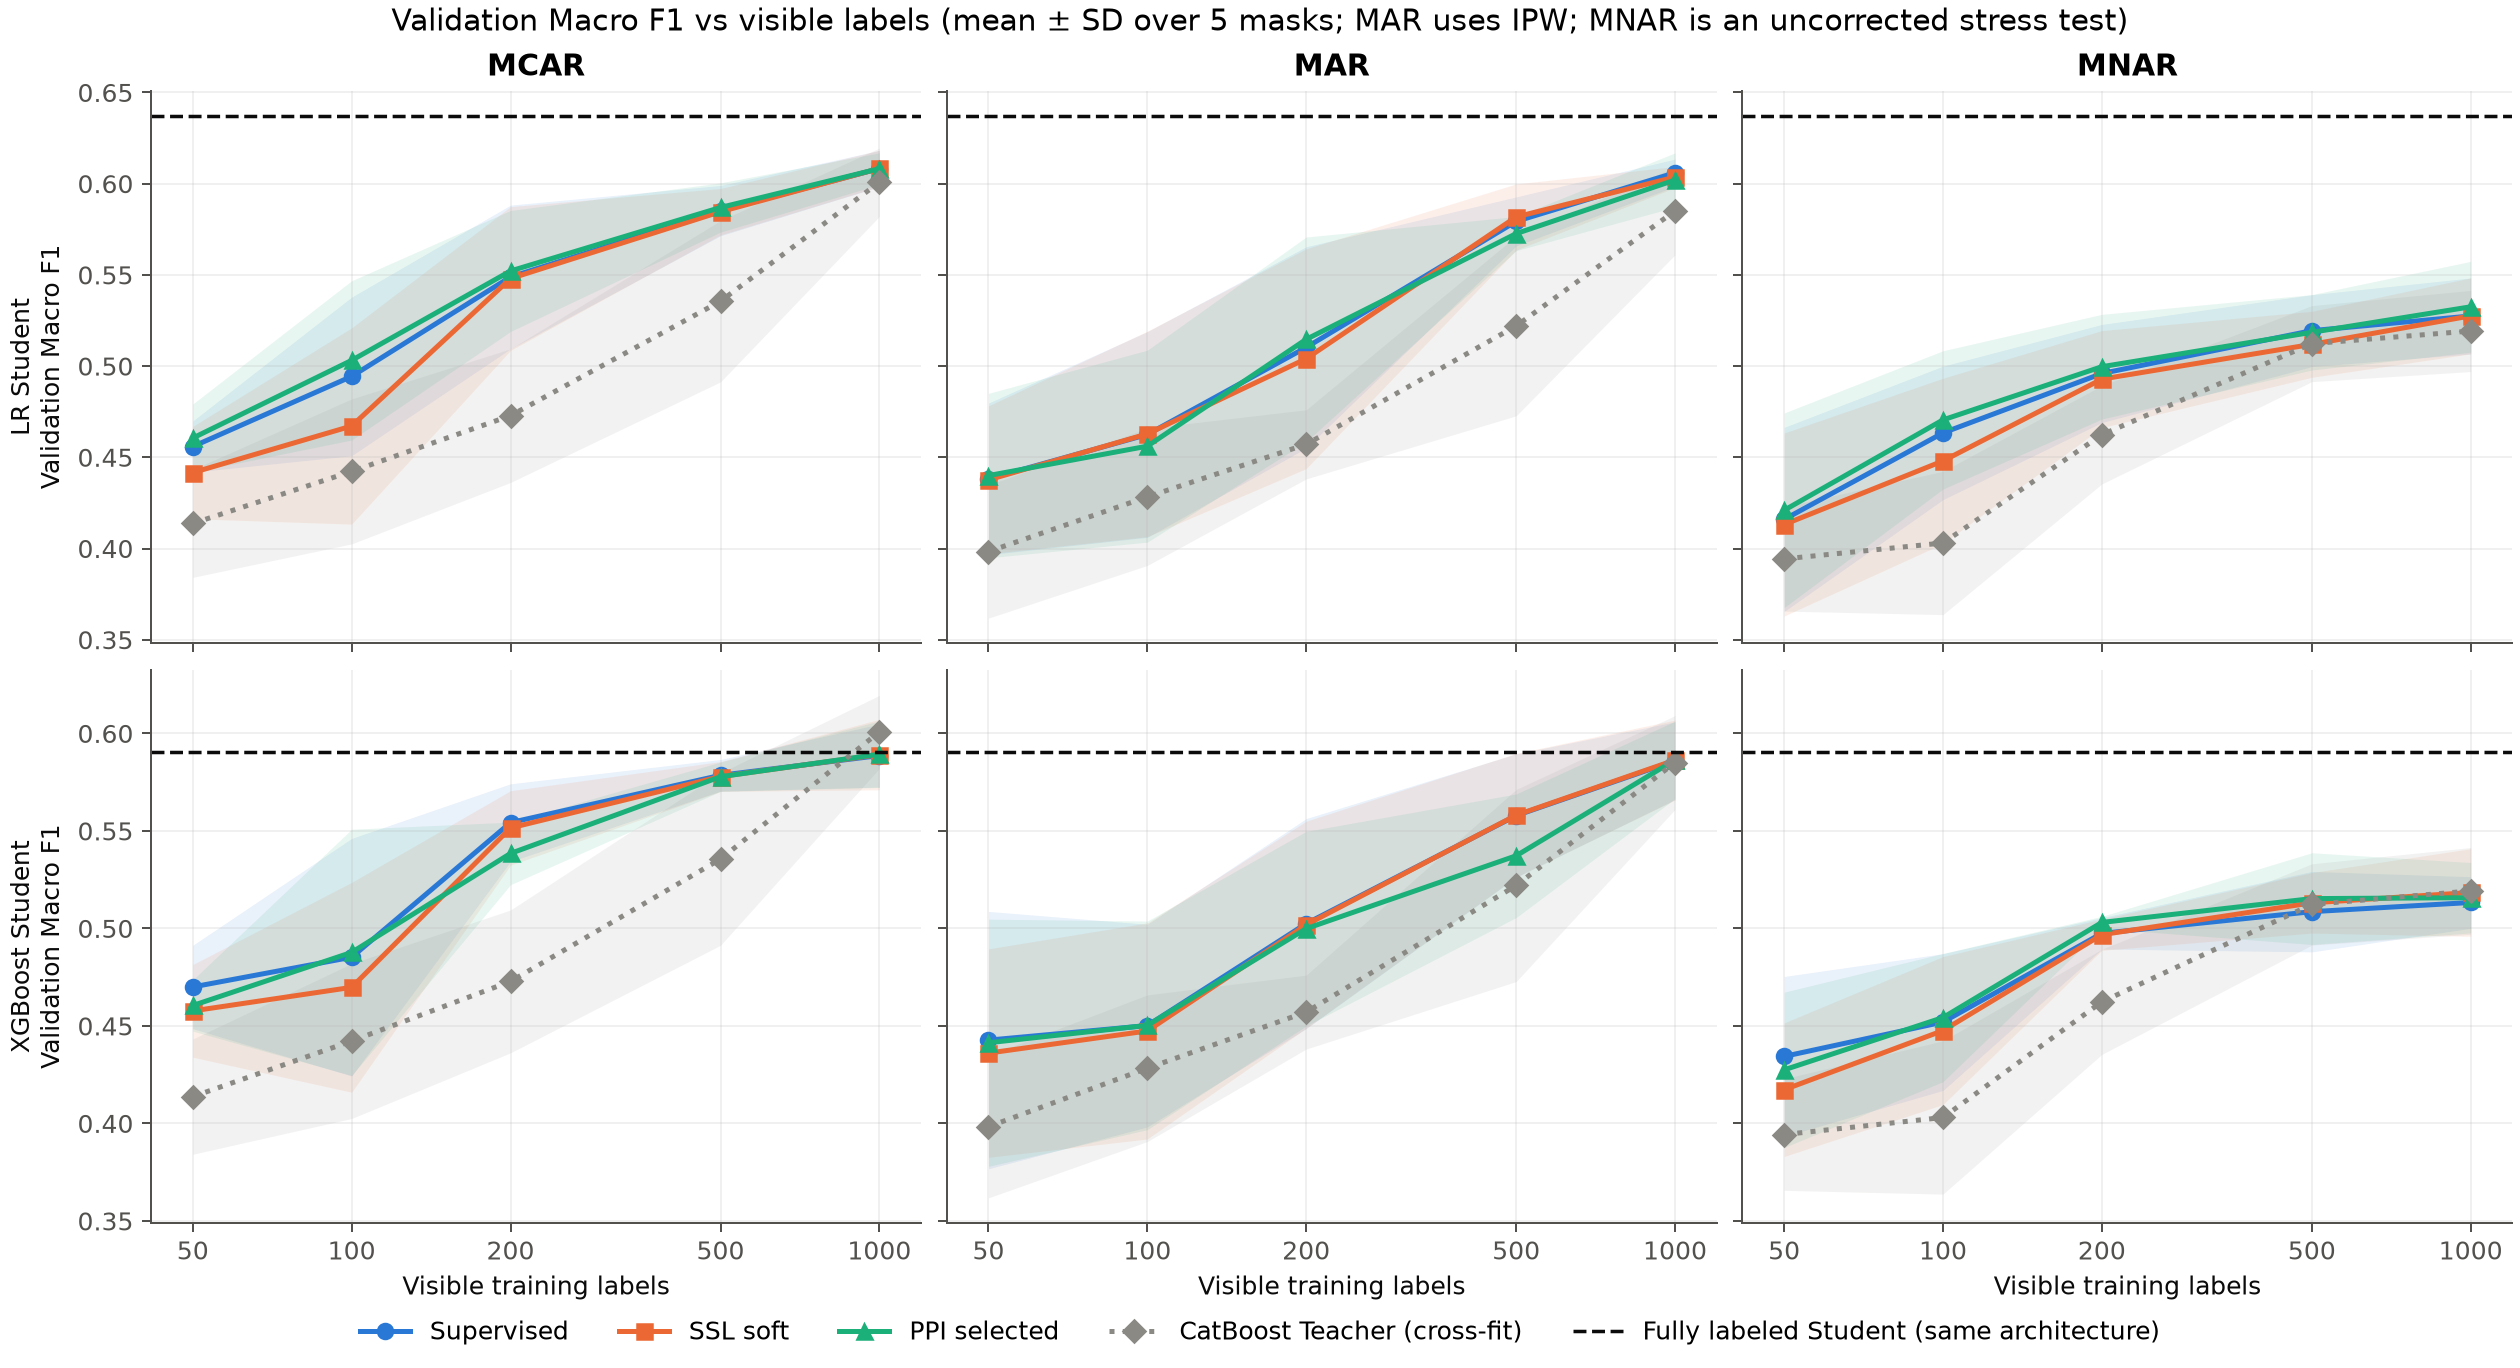
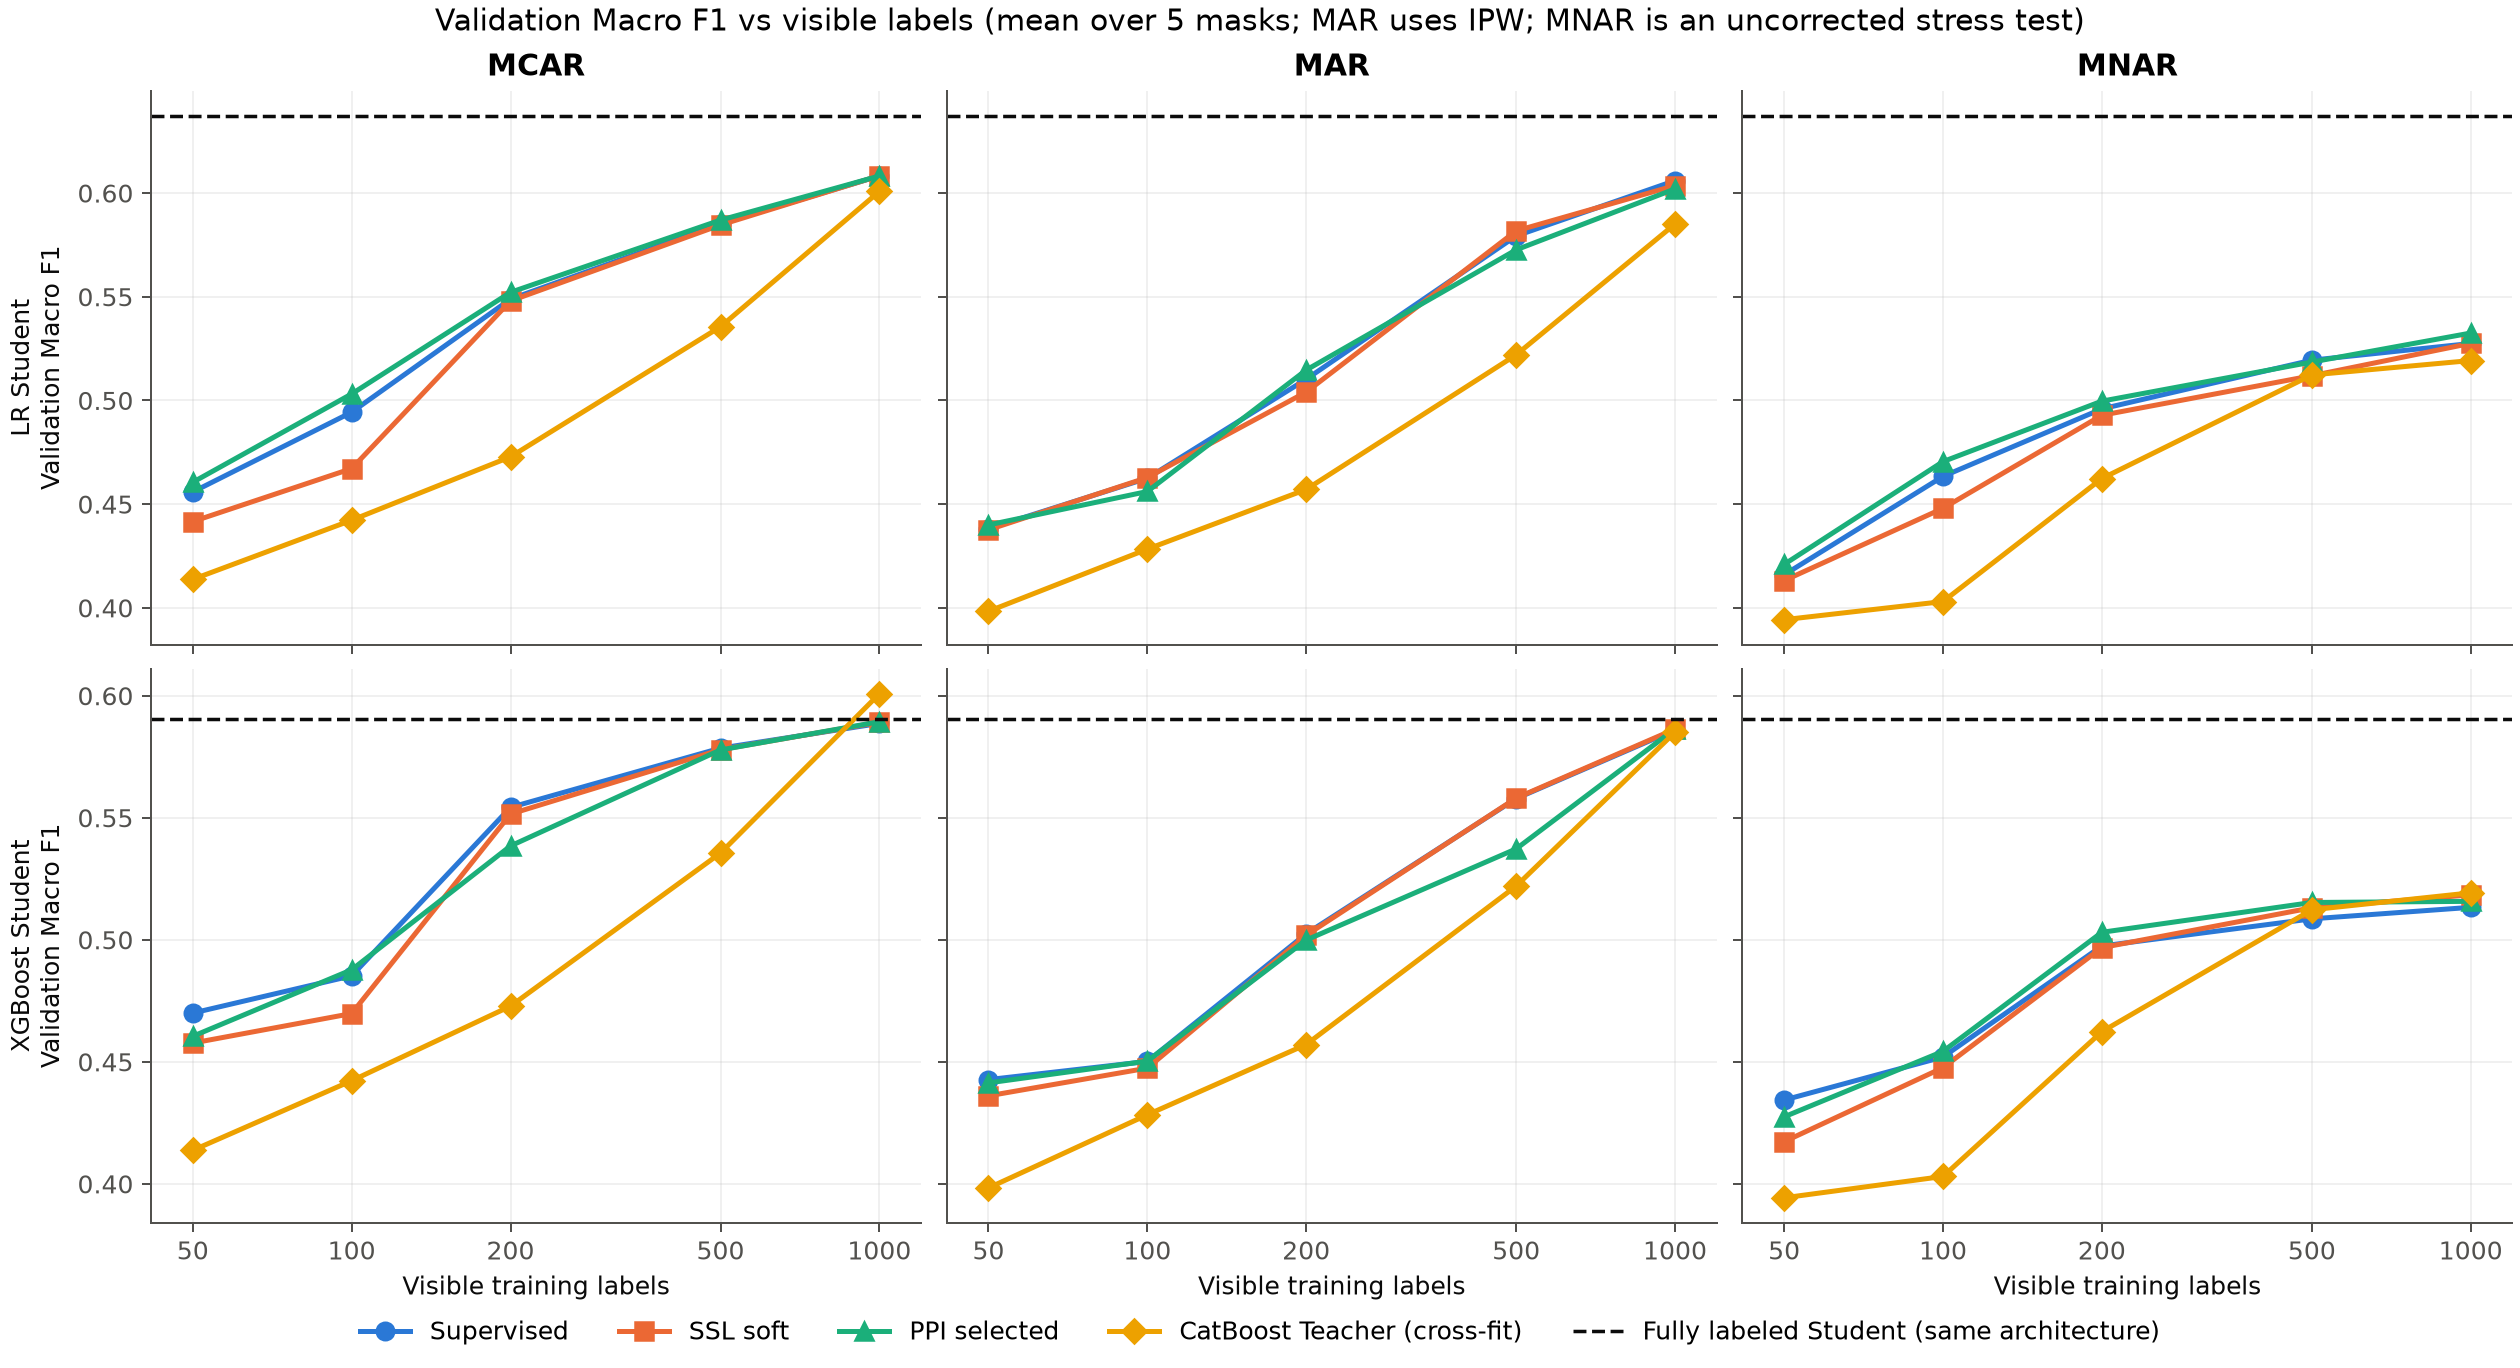
update plts

diff --git a/src/core/figures.py b/src/core/figures.py
@@ -61,10 +61,13 @@ MECHANISMS = list(DEFAULT.mechanisms)
 VIOLET = '#6250d6'
 
 
-def six_panel(row_labels):
-    fig, axes = plt.subplots(2, 3, figsize=(14, 7.6), sharex=True, sharey='row', layout='constrained')
+def six_panel(row_labels, mechanisms=None):
+    """2 × 3 grid (MCAR / MAR / MNAR); a study run on fewer mechanisms gets only those columns."""
+    mechanisms = MECHANISMS if mechanisms is None else mechanisms
+    fig, axes = plt.subplots(2, len(mechanisms), figsize=(14*len(mechanisms)/3+(1 if len(mechanisms) < 3 else 0), 7.6),
+                             sharex=True, sharey='row', layout='constrained')
     for row, label in enumerate(row_labels):
-        for column, mechanism in enumerate(MECHANISMS):
+        for column, mechanism in enumerate(mechanisms):
             ax = axes[row, column]
             ax.set_xscale('log')
             ax.set_xticks(BUDGETS, [str(b) for b in BUDGETS])
@@ -81,25 +84,52 @@ def six_panel(row_labels):
 
 
 def band(ax, values, label, color, marker, linestyle='-'):
-    """values: Series indexed by (budget, seed); draws the mean over masks with a ±1 SD band."""
-    grouped = values.groupby(level='budget')
-    mean, sd = grouped.mean().reindex(BUDGETS), grouped.std().reindex(BUDGETS)
+    """values: Series indexed by (budget, seed); draws the mean over masks as a line (no shaded band; the spread is
+    in the CSV tables). The final color is assigned per label by finish()."""
+    mean = values.groupby(level='budget').mean().reindex(BUDGETS)
     keep = mean.notna().to_numpy()
-    x = np.array(BUDGETS)[keep]
-    ax.plot(x, mean[keep], color=color, marker=marker, linestyle=linestyle, linewidth=2, markersize=6, label=label)
-    ax.fill_between(x, (mean-sd)[keep], (mean+sd)[keep], color=color, alpha=.10, linewidth=0)
+    ax.plot(np.array(BUDGETS)[keep], mean[keep], color=color, marker=marker, linestyle=linestyle, linewidth=2,
+            markersize=7, label=label)
 
 
 def zero_line(ax):
     ax.axhline(0, color=INK, linewidth=1.2, label='Supervised (difference = 0)')
 
 
+# Validated categorical order (dataviz reference palette; passes adjacent-pair CVD and normal-vision checks on a light
+# surface). Every line label in a figure gets its own slot, in order of first appearance; all lines are solid, markers
+# stay as a second cue, and black/gray reference lines keep their color.
+PALETTE = ['#2a78d6', '#eb6834', '#1baf7a', '#eda100', '#e87ba4', '#008300', '#6250d6', '#e34948']
+
+
+def recolor(axes):
+    slots = {}
+    for ax in axes.flat:
+        for line in ax.get_lines():
+            label = line.get_label()
+            if label.startswith('_'):
+                continue
+            if label.startswith('Fully labeled') or str(line.get_color()).lower() == INK:
+                line.set_linestyle('--')  # Reference / threshold lines: dashed, black (a second reference stays gray).
+                continue
+            if line.get_linestyle() not in ('None', ''):
+                line.set_linestyle('-')  # Data lines: all solid; series differ by color and marker.
+            if label not in slots:
+                if len(slots) == len(PALETTE):
+                    raise ValueError('More than eight series in one figure: split it instead of cycling colors.')
+                slots[label] = PALETTE[len(slots)]
+            line.set_color(slots[label])
+
+
 def finish(fig, axes, title, name):
+    recolor(axes)
     handles = {}
     for ax in axes.flat:
         for handle, label in zip(*ax.get_legend_handles_labels()):
             handles.setdefault(label, handle)
     ncol = len(handles) if len(handles) <= 5 else (len(handles)+1)//2
+    if axes.shape[1] < 3:  # Narrower figure (fewer mechanisms): a taller legend instead of a clipped one.
+        ncol = min(ncol, 3)
     fig.legend(handles.values(), handles.keys(), loc='outside lower center', ncol=ncol, frameon=False)
     fig.suptitle(title, fontsize=12)
     save(fig, name)
@@ -130,7 +160,7 @@ def learning_curves(main, reference, audits):
             band(ax, by_case(teacher, mechanism), 'CatBoost Teacher (cross-fit)', TEACHER_GRAY, 'D', ':')
             ax.axhline(reference[student]['macro_f1'], color=INK, linestyle='--', linewidth=1.4,
                        label='Fully labeled Student (same architecture)')
-    finish(fig, axes, 'Validation Macro F1 vs visible labels (mean ± SD over 5 masks; MAR uses IPW; '
+    finish(fig, axes, 'Validation Macro F1 vs visible labels (mean over 5 masks; MAR uses IPW; '
            'MNAR is an uncorrected stress test)', 'learning_curves.png')
 
 
@@ -158,7 +188,7 @@ def teacher_quality(main, audits, study_audits, extra):
                 band(ax, by_case(tabpfn, mechanism, 'alone'), 'TabPFN-3.5 alone (all visible labels as context)',
                      MUTED, 'P', ':')
     finish(fig, axes, 'Teacher quality: each Teacher vs the Student trained Supervised '
-           '(validation Macro F1; mean ± SD over 5 masks)', 'teacher_quality.png')
+           '(validation Macro F1; mean over 5 masks)', 'teacher_quality.png')
 
 
 def complete_tabpfn():
@@ -203,7 +233,7 @@ def ppi_gains(rows, split='validation', name='ppi_gains.png', extra=None):
                 band(ax, t['SSL soft']-t.Supervised, 'SSL soft (TabPFN-3.5 Teacher, pilot)', ORANGE, 'X', ':')
                 band(ax, t['PPI selected']-t.Supervised, 'PPI (TabPFN-3.5 Teacher, pilot)', AQUA, 'X', ':')
     finish(fig, axes, f'Gain over the same Student trained Supervised on the same mask '
-           f'(above 0 = better; {split} Macro F1; mean ± SD over 5 masks)', name)
+           f'(above 0 = better; {split} Macro F1; mean over 5 masks)', name)
 
 
 # Step 6: Figure 4 — XGBoost Sensitivity on the Pre-Declared Subset (A2 Rounds, A3 Capacity)
@@ -214,14 +244,12 @@ def xgboost_sensitivity(main, extra, a2, a3_reference):
                          for (m, b, s), a in a2.items() for r, f in a['fits'].items()])
     large = extra.loc[extra.method == f'{A3_LABEL} / Supervised']
     small = main.loc[(main.method == 'XGBoost / Supervised') & main.budget.isin(A2_GRID['budgets'])]
-    fig, axes = six_panel(['XGBoost PPI λ=1\nMacro F1 − Supervised', 'XGBoost Supervised\nValidation Macro F1'])
-    for column, mechanism in enumerate(MECHANISMS):
+    # A2/A3 test optimization and capacity, which do not depend on the missingness mechanism; they were declared on
+    # MCAR and MAR only (MNAR would add uncorrected selection bias), so the figure is 2 × 2.
+    fig, axes = six_panel(['XGBoost PPI λ=1\nMacro F1 − Supervised', 'XGBoost Supervised\nValidation Macro F1'],
+                          A2_GRID['mechanisms'])
+    for column, mechanism in enumerate(A2_GRID['mechanisms']):
         top, bottom = axes[0, column], axes[1, column]
-        if mechanism not in A2_GRID['mechanisms']:
-            for ax in (top, bottom):
-                ax.text(.5, .5, 'Not run\n(pre-declared subset:\nMCAR and MAR at 100 and 500 labels)',
-                        ha='center', va='center', color=MUTED, transform=ax.transAxes)
-            continue
         zero_line(top)
         for rounds, linestyle, marker in [(100, '-', '^'), (300, '--', 'v')]:
             f = fits.loc[fits.rounds == rounds]
@@ -233,10 +261,10 @@ def xgboost_sensitivity(main, extra, a2, a3_reference):
         band(bottom, by_case(large, mechanism), 'Supervised, 300 rounds, depth 5', BLUE, 'D', ':')
         bottom.axhline(a3_reference['main']['macro_f1'], color=INK, linestyle='--', linewidth=1.4,
                        label='Fully labeled, main')
-        bottom.axhline(a3_reference['large']['macro_f1'], color=INK, linestyle=':', linewidth=1.4,
+        bottom.axhline(a3_reference['large']['macro_f1'], color=MUTED, linewidth=1.4,
                        label='Fully labeled, depth 5')
-    finish(fig, axes, 'XGBoost sensitivity on the pre-declared subset: boosting rounds for PPI (top) and Student capacity '
-           'for Supervised (bottom); mean ± SD over 5 masks', 'xgboost_sensitivity.png')
+    finish(fig, axes, 'XGBoost sensitivity (MCAR and MAR at 100 and 500 labels): boosting rounds for PPI (top)\n'
+           'and Student capacity for Supervised (bottom); mean over 5 masks', 'xgboost_sensitivity.png')
 
 
 # Step 7: Print the Key Numbers (Console Only; Nothing Is Written Besides the Figures)
@@ -341,7 +369,7 @@ def improved_outputs():
                                                      ('PPI heuristic λ', AQUA, 'v', '--')]:
                     band(ax, (wide[f'{student} / {method}{rule}']-sup).loc[mechanism], method, color, marker, style)
         finish(fig, axes, f'Exploratory {PROTOCOL["name"]}: gain over Supervised on the same mask ({label}; Ensemble '
-               f'Teacher; validation; mean ± SD over {len(CONFIG.seeds)} masks)', name)
+               f'Teacher; validation; mean over {len(CONFIG.seeds)} masks)', name)
 
     print(f'\n=== Exploratory {PROTOCOL["name"]} (validation only; {len(CONFIG.seeds)} seeds) ===')
     for student in STUDENTS:
@@ -573,7 +601,7 @@ def positive_control_outputs():
             for method in PC_METHODS:
                 band(ax, paired(rows, teacher, f'{method} − Supervised').loc[mechanism], method, *styles[method])
     finish(fig, axes, 'Synthetic positive control: oracle Teacher (top) and a noisy Teacher weaker than the Student (bottom; noise independent of y)'
-           f'\nLR Student, gain over Supervised on the same mask (mean ± SD over {len(declaration["grid"]["seeds"])} '
+           f'\nLR Student, gain over Supervised on the same mask (mean over {len(declaration["grid"]["seeds"])} '
            'independent replications)', 'positive_control.png')
     table = checks(rows, declaration)
     table.to_csv(RESULTS_DIR/'positive_control_checks.csv', index=False, float_format='%.5f')

diff --git a/README.md b/README.md
@@ -47,13 +47,17 @@ PPI:        mean_L[a·(CE(Y) − λ·CE(qL))] + λ·mean_U[b·CE(qU)],   λ ∈ 
 | `experiments.sqlite`, `learning_curves.png` | Main study (Macro F1 vs labels; LR top, XGBoost bottom) |
 | `teacher_study.sqlite`, `teacher_quality.png` | Teachers (CatBoost, same-architecture, TabPFN) vs the Supervised Student |
 | `ppi_gains.png` | **Main result**: SSL / PPI gain over Supervised on the same mask (incl. λ fixed at 1 and the TabPFN Teacher) |
-| `ablations.sqlite`, `xgboost_sensitivity.png` | A1–A3 |
+| `ablations.sqlite`, `xgboost_sensitivity.png` | A1–A3. The figure is 2×2: A2/A3 were declared on MCAR and MAR only (100 and 500 labels) |
 | `lr_paired_uncertainty.csv`, `lr_ablation_questions.csv` | LR paired differences with bootstrap intervals (overall and per class); ablations as questions |
 | `improved.sqlite`, `improved_gains.png` | Exploratory improved_v2 |
 | `positive_control.*`, `ppssl_replication.*` | Synthetic checks (database, figure, and verdicts on the pre-declared checks) |
 | `tabpfn_teacher.sqlite`, `tabpfn_teacher_summary.csv` | TabPFN-3.5 Teacher pilot |
 
-All figures are 2×3 grids: columns MCAR / MAR / MNAR, mean ± SD over masks. Colors: Supervised blue, SSL orange, PPI aqua, Teacher gray.
+Figures are 2×3 grids (columns MCAR / MAR / MNAR; lines = mean over masks, no shaded bands; the spread is in the CSV tables), except `xgboost_sensitivity.png`.
+
+Why `xgboost_sensitivity.png` has no MNAR column (reason written down afterwards; the original declaration recorded none):
+- A2/A3 test optimization and capacity, which do not depend on the missingness mechanism.
+- MNAR would add uncorrected selection bias. Each line is solid, with its own color (colorblind-checked palette) and marker; black and gray lines are references.
 
 ## Main result (LR Student, CatBoost Teacher, 75 masks, development set)
 
